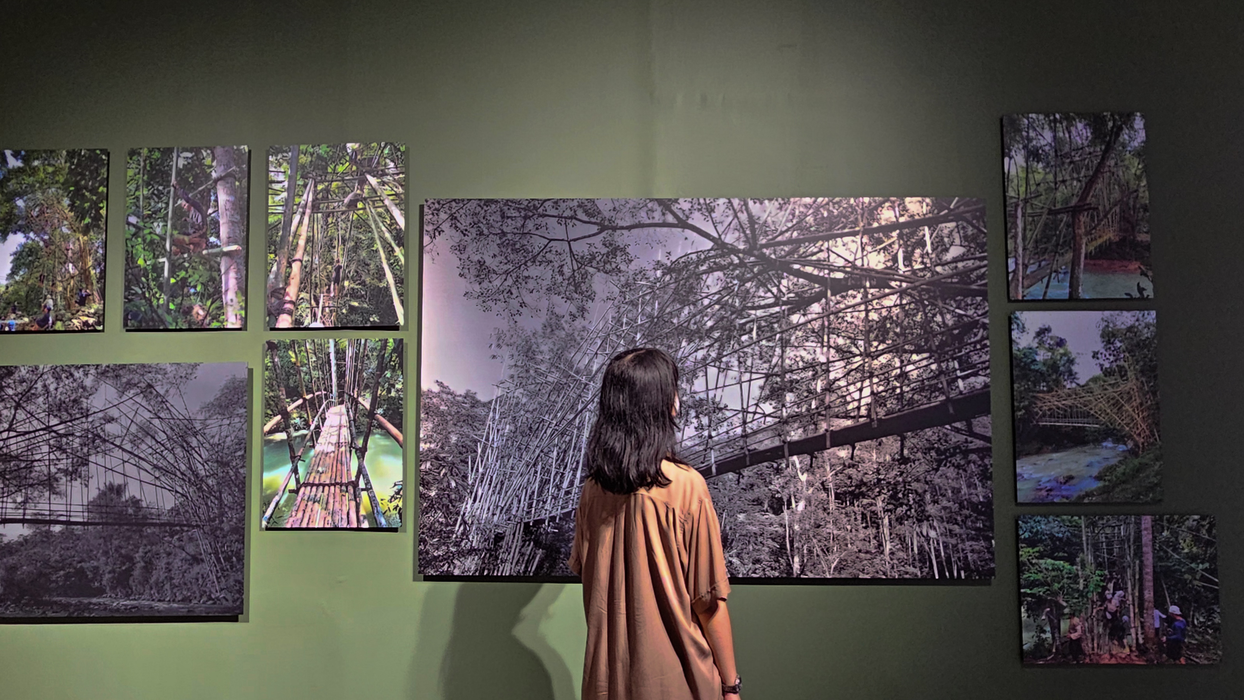
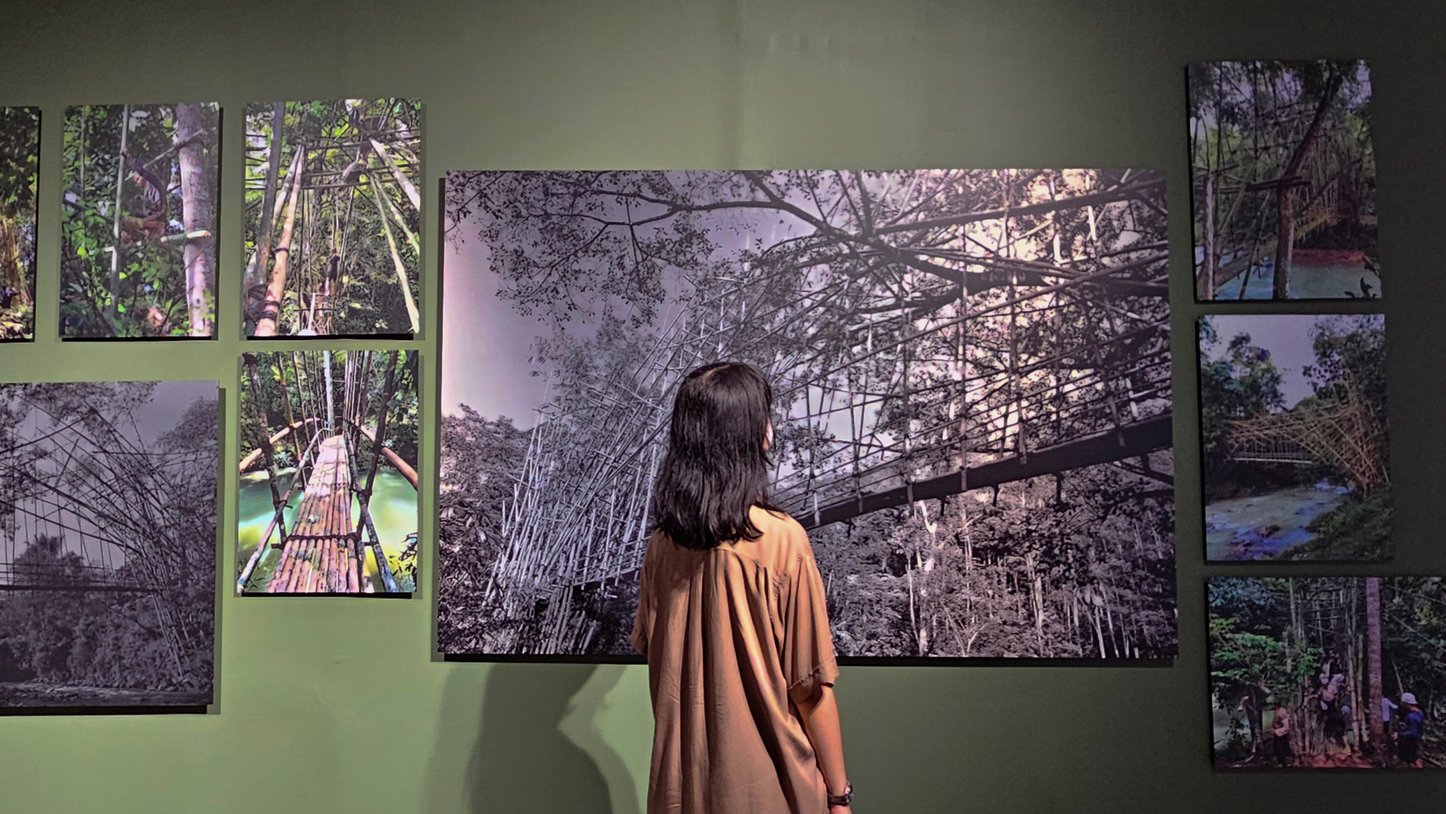
Tipo3 & About Us major update

diff --git a/snapo/public/index.css b/snapo/public/index.css
@@ -3,7 +3,7 @@
 body{
     margin: 0;
     padding: 0;
-    background-color: #100C08;
+    overflow-x: hidden;
 }
 
 #root{
@@ -13,7 +13,7 @@ body{
     height: auto;
     display: flex;
     flex-direction: column;
-    background-color: #100C08;
+    background-color: rgb(255, 255, 255);
 }
 
 #root > div{
@@ -24,15 +24,47 @@ body{
 }
 
 /*About Us*/
-#about-us{
-    background-color: #100C08;
-}
-
-#image-track img {
+#image-container {
     width: 35vmin;
     height: 54vmin;
+    overflow: hidden;
+  }
+  
+#image-container img {
+    width: 100%;
+    height: 100%;
     object-fit: cover;
-    object-position: center;
+    object-position: right;
+    transition: filter 0.5s ease-in-out;
+}  
+
+#image-container h1 {
+    font-family: 'Segoe UI';
+    font-weight: 200;
+    color: white;
+    position: relative;
+    top: -50%;
+    left: 50%;
+    transform: translate(-50%, -50%);
+    margin: 0;
+    padding: 0;
+    pointer-events: none;
+    text-align: center;
+    padding: 1em;
+}
+
+#image-container #fade-in{
+    opacity: 1;
+    transition: opacity 0.5s ease-in-out;
+}
+
+#image-container #fade-out{
+    opacity: 0;
+    transition: opacity 0.5s ease-in-out;
+}
+
+#image-container img:hover{
+    filter: grayscale(100%) blur(5px);
 }
 
 #image-track {
@@ -42,6 +74,7 @@ body{
     left: 50%;
     top: 50%;
     transform: translate(0%, -50%);
+    max-width: fit-content;
 }
 
 .selectDisable {
@@ -52,15 +85,11 @@ body{
     user-select: none;
 }
 
-/*TIPO3 ACD PUNYA!!!!!!!*/
-#container3
-{
-    color: #fff;
-    margin: 0;
-    width: 100vw;
-    height: 100vh;
-    margin-top: 22vh;
-    background-color: #100C08;
+/*Tipo3*/
+#container3{
+    box-sizing: border-box;
+    padding-top: 4.5rem !important;
+    overflow: hidden;
 }
 
 #image3

diff --git a/snapo/src/components/NAS/Individual.jsx b/snapo/src/components/NAS/Individual.jsx
@@ -1,35 +1,55 @@
-import React from "react";
+import React, { useState, useRef, useEffect } from "react";
 import anime from "animejs/lib/anime.es";
 
 function Individual(parameter) {
+  const [name, setName] = useState("");
+  const fadeOutTimeoutRef = useRef(null);
+  const [visible, setVisible] = useState(false);
+
   function handleHover(event) {
+    setName(parameter.individual_name);
+    clearTimeout(fadeOutTimeoutRef.current);
     const image = event.target;
     anime({
-        targets: image,
-        scale: 1.1,
-        duration: 500,
-        easing: "easeOutSine",
+      targets: image,
+      scale: 1.2,
+      duration: 500,
+      easing: "easeOutSine",
     });
+    setVisible(true);
   }
 
   function handleHoverOut(event) {
     const image = event.target;
     anime({
-        targets: image,
-        scale: 1,
-        duration: 500,
-        easing: 'easeOutSine',
+      targets: image,
+      scale: 1,
+      duration: 500,
+      easing: "easeOutSine",
     });
-  }  
+
+    fadeOutTimeoutRef.current = setTimeout(() => {
+      setName("");
+    }, 500);
+    setVisible(false);
+  }
+
+  useEffect(() => {
+    return () => {
+      clearTimeout(fadeOutTimeoutRef.current);
+    };
+  }, []);
 
   return (
-    <img
-      id={parameter.key}
-      src={parameter.img_path}
-      onMouseEnter={handleHover}
-      onMouseLeave={handleHoverOut}
-      draggable="false"
-    />
+    <div id="image-container">
+      <img
+        src={parameter.img_path}
+        onMouseEnter={handleHover}
+        onMouseLeave={handleHoverOut}
+        draggable="false"
+      />
+      <h1 id={visible ? "fade-in" : "fade-out"}>{name}</h1>
+    </div>
   );
 }
 

diff --git a/snapo/src/components/NAS/leftrightanimation.js b/snapo/src/components/NAS/leftrightanimation.js
@@ -1,0 +1,35 @@
+function leftrightanimation() {
+  const track = document.getElementById("image-track");
+
+  window.onmousedown = e => {
+          track.dataset.mouseDownAt = e.clientX;
+  }
+
+  window.onmouseup = () => {
+      track.dataset.mouseDownAt = "0";
+      track.dataset.prevPercentage = track.dataset.percentage;
+  }
+
+  window.onmousemove = e => {
+      if (track.dataset.mouseDownAt === "0") return;
+
+      const mouseDelta = parseFloat(track.dataset.mouseDownAt) - e.clientX;
+      const maxDelta = window.innerWidth / 2;
+      const percentage = (mouseDelta / maxDelta) * -100;
+      const nextPercentage = parseFloat(track.dataset.prevPercentage) + percentage;
+
+      const clampedPercentage = Math.min(Math.max(nextPercentage, -100), 0);
+      track.dataset.percentage = clampedPercentage;
+      track.animate({
+          transform: `translate(${clampedPercentage}%, -50%)`
+      }, {duration: 1200, fill: "forwards"});
+
+      for (const image of track.getElementsByTagName("img")) {
+          image.animate({
+              objectPosition: `${100 + clampedPercentage}% center`
+          }, {duration: 1200, fill: "forwards"});
+      }
+  }
+}
+
+export default leftrightanimation;

diff --git a/snapo/src/components/Acd/Tipo3.jsx b/snapo/src/components/Acd/Tipo3.jsx
@@ -1,17 +1,23 @@
 import React from "react";
-import Typo3 from "./Typo3";
-import tipou3 from "./tipou3";
 
 function Tipo3()
 {
-    const content = tipou3.map((param) => (
-        <Typo3 id={param.id} image3={param.image} title={param.title} text={param.text} author={param.author} /> 
-    ));
+    const image1 = require("../../ASET/Images/lukisan.jpg")
     return (
-        <div id="tipo3">
-          {content}
+        <div id="container3">
+            <div id="image3">
+                <img src={image1}/>
+            </div>
+            <h2 id="kutip">"</h2>
+            <h1 id="title">Living <br /> Space</h1>
+            <p id="text">Our first skin is human skin. Clothes make up our second skin. If so, then isn’t our third skin made up of our living space, the walls, doors, and windows that surround the human body?</p>
+            <h5 id="author">Chiharu Shiota</h5>
+            <div id="rectangle"></div>
+            <div id="rectangle1"></div>
+            <div id="rectangle2"></div>
+            <div id="line"></div>
+            <div id="dot"></div>
         </div>
     );
 }
-
 export default Tipo3;

diff --git a/snapo/src/components/App.jsx b/snapo/src/components/App.jsx
@@ -1,7 +1,6 @@
 import React from "react";
 import Navbar from "../components/Vinik/Navbar";    
 import AboutUs from "../components/NAS/AboutUs";
-import Tipoc from "./Calista/Tipoc";
 import Tipo3 from "./Acd/Tipo3";
 import Typo1 from "./Ravin/Typo1";
 import Home from "./Vinik/Home/Home";
@@ -13,17 +12,17 @@ import Footer from "./Ravin/Footer";
 function App()
 {
     return (
-        <div>
-            <Navbar/>
-            <Home/>
-            <Tipo3 />
-            <Typo1/>
-            <Tipo2 /> 
-            <Gallery/>
-            <Work/>
-            <AboutUs/>
-            <Footer/>
-        </div>
+        <>
+            {/* <Navbar/> */}
+            {/* <Home/> */}
+            <Tipo3 /> {/* Corrected Finished*/}
+            {/* <Typo1/> */}
+            {/* <Tipo2 />  */}
+            {/* <Gallery/> */}
+            {/* <Work/> */}
+            <AboutUs/> {/* Corrected Unfinished*/}
+            {/* <Footer/> */}
+        </>
     )
 }
 

diff --git a/snapo/src/components/NAS/individualsdata.js b/snapo/src/components/NAS/individualsdata.js
@@ -1,0 +1,34 @@
+const individualsdata = [
+  {
+    id: 1,
+    name: "Amanda Citra Dewanti",
+    img_path: require("../../ASET/Individuals/ACD.jpg"),
+    link: "#",
+  },
+  {
+    id: 2,
+    name: "Calista Belva",
+    img_path: require("../../ASET/Individuals/CB.jpg"),
+    link: "#",
+  },
+  {
+    id: 3,
+    name: "Kevin Ken",
+    img_path: require("../../ASET/Individuals/KK.jpg"),
+    link: "#",
+  },
+  {
+    id: 4,
+    name: "Nathan Angelo Stenlie",
+    img_path: require("../../ASET/Individuals/NAS.jpg"),
+    link: "#",
+  },
+  {
+    id: 5,
+    name: "Robertus Ravin Woenarso",
+    img_path: require("../../ASET/Individuals/RW.jpg"),
+    link: "#",
+  },
+];
+
+export default individualsdata;

diff --git a/snapo/src/components/NAS/Individuals.jsx b/snapo/src/components/NAS/Individuals.jsx
@@ -1,10 +1,10 @@
 import React from "react";
+import individualsdata from "./individualsdata";
 import Individual from "./Individual";
-import about_us from "./about_us";
 
 function Individuals(){
-    const ImgTrack = about_us.map((parameter) => (
-        <Individual id={parameter.id} img_path={parameter.img_path}/>
+    const ImgTrack = individualsdata.map((parameter) => (
+        <Individual id={parameter.id} img_path={parameter.img_path} individual_name={parameter.name}/>
     ));
 
     return(

diff --git a/snapo/src/components/NAS/AboutUs.jsx b/snapo/src/components/NAS/AboutUs.jsx
@@ -1,13 +1,15 @@
-import React from "react";
-import core from "./core";
+import React, { useEffect } from "react";
+import leftrightanimation from "./leftrightanimation";
 import Individuals from "./Individuals";
 
 function AboutUs(){
+    useEffect(() => {
+        leftrightanimation();
+    }, []);
+    
     return(
         <div id="about-us">
-            <h1>About Us</h1>
             <Individuals/>
-            {document.addEventListener("turbolinks:load", core())}
         </div>
     )
 }

diff --git a/snapo/src/index.js b/snapo/src/index.js
@@ -1,8 +1,6 @@
 import React from "react";
 import ReactDOM from "react-dom/client";
 import App from "./components/App";
-import core from "./components/NAS/core";
-import Tipoc from "./components/Calista/Tipoc";
 
 const root = ReactDOM.createRoot(document.getElementById('root'));
 
